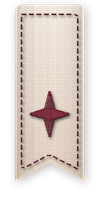
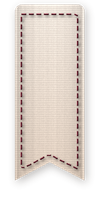
feat(bibliotheque): signet « en cours » teint en noyer, icônes Lucide sur les signets (#70)
- En cours : un brun noyer imprègne le ruban écru (le lie de vin reste à « terminé »)
- Coche et étincelle : icônes Lucide posées sur le ruban, plus brodées
- Script : motifs brodés retirés, variante noyer ajoutée

Changed region(s): [[0.2941, 0.4545, 0.7059, 0.7273]]

diff --git a/components/ui/RibbonBookmark.tsx b/components/ui/RibbonBookmark.tsx
@@ -11,22 +11,26 @@
  *     └──╲ ╱──┘   └──╲ ╱──┘   └──╲ ╱──┘
  *      terminé      en cours     nouveau
  *
- * - `done`    : ruban lie de vin, coche brodée crème ;
- * - `reading` : ruban écru que le lie de vin imprègne depuis le bout, à mon %,
- *               comme une teinture qui monte dans le tissu ; à 100 %, c'est le
- *               ruban « terminé ». Front de teinture ondulé et fondu, avec une
- *               ligne plus foncée là où la teinture s'accumule (comme le bord
- *               d'une aquarelle) : une coupe droite faisait abrupte ;
- * - `new`     : ruban écru, étincelle brodée lie de vin (dernier livre ajouté).
+ * - `done`    : ruban lie de vin, coche Lucide crème ;
+ * - `reading` : ruban écru qu'un brun noyer imprègne depuis le bout, à mon %,
+ *               comme une teinture qui monte dans le tissu. Front ondulé et
+ *               fondu, avec une ligne plus foncée là où la teinture s'accumule
+ *               (comme le bord d'une aquarelle) : une coupe droite faisait
+ *               abrupte. Le lie de vin reste réservé à « terminé » ;
+ * - `new`     : ruban écru, étincelle Lucide lie de vin (dernier livre ajouté).
  *
- * Les images sont calculées par scripts/generate-ribbon-bookmarks.py (tissu,
- * broderie en relief, ombre portée) : c'est ce qui les rend réalistes. Pour une
+ * Les pictogrammes sont des icônes Lucide posées sur l'image, pas brodés : règle
+ * « Lucide uniquement », et la coche brodée ne plaisait pas.
+ *
+ * Les rubans sont calculés par scripts/generate-ribbon-bookmarks.py (tissu,
+ * surpiqûre en relief, ombre portée) : c'est ce qui les rend réalistes. Pour une
  * nouvelle variante, l'ajouter au script plutôt que de dessiner un ruban ici.
  */
 
 import { Image } from 'expo-image';
+import { CheckIcon, SparkleIcon, type LucideIcon } from 'lucide-react-native';
 import React, { useId, useMemo } from 'react';
-import { StyleSheet } from 'react-native';
+import { StyleSheet, View } from 'react-native';
 import Svg, {
   ClipPath,
   Defs,
@@ -52,8 +56,16 @@ const RIBBON_LEFT = 5;
 const RIBBON_WIDTH = 23;
 const RIBBON_TOP = 1.5;
 const RIBBON_END = 60;
-/** Couleur de la ligne plus foncée au front de teinture (lie de vin profond) */
-const TIDE_LINE = '#4a1622';
+/** Couleur de la ligne plus foncée au front de teinture (noyer profond) */
+const TIDE_LINE = '#3a2a20';
+
+/** Pictogramme de chaque ruban : icône Lucide, sa couleur, centrée dans le ruban */
+const ICONS: Record<'done' | 'new', { icon: LucideIcon; color: string }> = {
+  done: { icon: CheckIcon, color: '#f6ede4' },
+  new: { icon: SparkleIcon, color: '#7a2e3e' },
+};
+const ICON_SIZE = 15;
+const ICON_CENTER_Y = 38;
 
 /** Hauteur de l'ondulation du front, et largeur du fondu sous elle */
 const WAVE = 0.9;
@@ -100,7 +112,15 @@ export default function RibbonBookmark(props: RibbonBookmarkProps) {
   const line = useMemo(() => dyeFront(front, percent * 0.37), [front, percent]);
 
   if (props.kind !== 'reading') {
-    return <Image source={RIBBONS[props.kind]} style={styles.ribbon} contentFit="contain" />;
+    const { icon: Icon, color } = ICONS[props.kind];
+    return (
+      <View style={styles.ribbon}>
+        <Image source={RIBBONS[props.kind]} style={StyleSheet.absoluteFill} contentFit="contain" />
+        <View style={styles.icon}>
+          <Icon size={ICON_SIZE} color={color} strokeWidth={2.5} absoluteStrokeWidth />
+        </View>
+      </View>
+    );
   }
 
   // Zone teinte : sous le front, jusqu'en bas de l'image
@@ -154,5 +174,15 @@ const styles = StyleSheet.create({
   ribbon: {
     width: WIDTH,
     height: HEIGHT,
+  },
+  // Légère ombre sous l'icône : elle semble posée sur le tissu, pas imprimée dessous
+  icon: {
+    position: 'absolute',
+    left: RIBBON_LEFT + (RIBBON_WIDTH - ICON_SIZE) / 2,
+    top: ICON_CENTER_Y - ICON_SIZE / 2,
+    shadowColor: '#1e140e',
+    shadowOffset: { width: 0, height: 0.5 },
+    shadowOpacity: 0.3,
+    shadowRadius: 0.5,
   },
 });

diff --git a/scripts/generate-ribbon-bookmarks.py b/scripts/generate-ribbon-bookmarks.py
@@ -2,9 +2,10 @@
 Génère les marque-pages en tissu brodés de la bibliothèque
 (assets/images/ribbons/ribbon-*.png, en @2x et @3x).
 
-Un signet en ruban qui sort du haut du livre, se replie par-dessus le bord de la
-couverture et pend devant elle, bout coupé en V. Dessus, un motif brodé au point
-passé (satin stitch), en relief.
+Un signet en ruban qui sort du haut du livre et pend devant la couverture, bout
+coupé en V, surpiqûre brodée sur tout le tour. Le pictogramme (coche, étincelle)
+n'est PAS dans l'image : l'app pose une icône Lucide par-dessus (règle : Lucide
+uniquement, pas de dessin maison ; la coche brodée ne plaisait pas).
 
 Réalisme, dans l'ordre du dessin :
 - le ruban : gros-grain (fines côtes horizontales), lisières un peu plus denses,
@@ -12,16 +13,16 @@ Réalisme, dans l'ordre du dessin :
   jamais d'aplat) ;
 - pas de pli dessiné au sommet : le bourrelet formait un trait qui alourdissait le
   haut (retiré à la demande de Lea) ;
-- la broderie : des centaines de fils parallèles, légèrement obliques, chacun
-  avec sa propre nuance, un reflet sur le dessus et une ombre portée sur le ruban ;
+- la broderie : surpiqûre au point avant sur tout le tour, fils en relief (deux
+  brins, reflet soyeux) et ombre portée sur le ruban ;
 - l'ombre du ruban sur la couverture.
 
 Variantes :
-- done           : ruban lie de vin, coche brodée crème (livre terminé) ;
-- new            : ruban écru, étincelle brodée lie de vin (dernier livre ajouté) ;
-- progress-track : ruban écru nu (livre en cours, le fond) ;
-- progress-fill  : ruban lie de vin nu, sans ombre (livre en cours, le remplissage
-                   que l'app coupe à mon %).
+- done           : ruban lie de vin, fil crème (livre terminé) ;
+- new            : ruban écru, fil lie de vin (dernier livre ajouté) ;
+- progress-track : ruban écru, fil noyer (livre en cours, le fond) ;
+- progress-fill  : ruban noyer, fil crème, sans ombre (livre en cours, la teinture
+                   que l'app révèle à mon %).
 
 Usage : python3 scripts/generate-ribbon-bookmarks.py
 Dépendances : numpy, Pillow.
@@ -44,22 +45,24 @@ TOP = 1.5                        # haut du pli
 COVER_TOP = 9                    # bord haut de la couverture dans l'image
 TAIL_END = 60                    # pointe des deux bouts du V
 NOTCH = 6                        # profondeur du V
-ICON_CENTER = (RIBBON_X + RIBBON_W / 2, 38)
 BORDER_INSET = 2.2               # surpiqûre : distance au bord du ruban
 
 WINE = ("#8c3b4c", "#5e1f2e")
 ECRU = ("#f3e9df", "#e1cfbf")
+WALNUT = ("#8a6a52", "#553d2e")
 CREAM_THREAD = "#f6ede4"
 WINE_THREAD = "#7a2e3e"
+WALNUT_THREAD = "#5e4535"
 
 VARIANTS = {
     # Couleur d'accent lie de vin : essai (demande de Lea, 2026-09-17)
-    "done": {"ribbon": WINE, "thread": CREAM_THREAD, "motif": "check"},
-    "new": {"ribbon": ECRU, "thread": WINE_THREAD, "motif": "sparkle"},
-    # En cours : l'app superpose le ruban lie de vin (sans ombre) sur le ruban écru,
-    # coupé à mon %. Même graine, même géométrie : les deux tissus coïncident.
-    "progress-track": {"ribbon": ECRU, "thread": WINE_THREAD, "motif": None},
-    "progress-fill": {"ribbon": WINE, "thread": CREAM_THREAD, "motif": None, "shadow": False},
+    "done": {"ribbon": WINE, "thread": CREAM_THREAD},
+    "new": {"ribbon": ECRU, "thread": WINE_THREAD},
+    # En cours : un brun noyer imprègne le ruban écru (le lie de vin est réservé à
+    # « terminé »). L'app révèle le ruban noyer (sans ombre) sous le front, à mon %.
+    # Même graine, même géométrie : les deux tissus coïncident au pixel.
+    "progress-track": {"ribbon": ECRU, "thread": WALNUT_THREAD},
+    "progress-fill": {"ribbon": WALNUT, "thread": CREAM_THREAD, "shadow": False},
 }
 
 
@@ -129,63 +132,6 @@ def fractal_rows(rng, n):
 
 # ── Broderie ──
 
-def smooth_polyline(points, fillet, step=0.05):
-    """Échantillonne une ligne brisée en arrondissant chaque coin (rayon `fillet`, en pt)."""
-    out = []
-    for i in range(len(points) - 1):
-        (x0, y0), (x1, y1) = points[i], points[i + 1]
-        seg = math.hypot(x1 - x0, y1 - y0)
-        start = fillet if i > 0 else 0
-        end = seg - (fillet if i < len(points) - 2 else 0)
-        n = max(2, int((end - start) / step))
-        for k in range(n + 1):
-            t = (start + (end - start) * k / n) / seg
-            out.append((x0 + (x1 - x0) * t, y0 + (y1 - y0) * t))
-        if i < len(points) - 2:
-            # Coin : courbe de Bézier quadratique entre la fin de ce segment et le début du suivant
-            (x2, y2) = points[i + 2]
-            seg2 = math.hypot(x2 - x1, y2 - y1)
-            p0 = (x1 - (x1 - x0) / seg * fillet, y1 - (y1 - y0) / seg * fillet)
-            p2 = (x1 + (x2 - x1) / seg2 * fillet, y1 + (y2 - y1) / seg2 * fillet)
-            for k in range(1, 12):
-                t = k / 12
-                out.append((
-                    (1 - t) ** 2 * p0[0] + 2 * (1 - t) * t * x1 + t ** 2 * p2[0],
-                    (1 - t) ** 2 * p0[1] + 2 * (1 - t) * t * y1 + t ** 2 * p2[1],
-                ))
-    return out
-
-
-def motif_strokes(kind):
-    """Le motif : des traits (points en pt), avec la demi-largeur du fil au départ et à l'arrivée."""
-    cx, cy = ICON_CENTER
-    if kind == "check":
-        k = 0.68  # pt par unité du dessin Lucide (24 × 24)
-        p = [(4.5, 12), (9, 16.5), (19.5, 6)]
-        pts = [(cx + (a - 12) * k, cy + (b - 11.25) * k) for a, b in p]
-        # Comme à la main : chaque branche brodée à part, fils perpendiculaires à
-        # elle, la grande branche en second pour couvrir la jonction. Effilée aux
-        # deux bouts, pleine au coin, comme un trait de plume : la coche pleine
-        # largeur, bouts carrés, faisait grossière.
-        (x0, y0), (x1, y1), (x2, y2) = pts
-        corner = 1.4
-
-        def extend(a, b, by):
-            length = math.hypot(b[0] - a[0], b[1] - a[1])
-            return (b[0] + (b[0] - a[0]) / length * by, b[1] + (b[1] - a[1]) / length * by)
-
-        short = smooth_polyline([(x0, y0), extend((x0, y0), (x1, y1), corner * 0.45)], 0)
-        long_leg = smooth_polyline([extend((x2, y2), (x1, y1), corner * 0.7), (x2, y2)], 0)
-        return [(short, 0.5, corner), (long_leg, corner, 0.28)]
-    # Étincelle à quatre branches, fines au bout
-    strokes = []
-    for angle, length in ((-90, 7.6), (90, 7.6), (0, 6.6), (180, 6.6)):
-        a = math.radians(angle)
-        tip = (cx + math.cos(a) * length, cy + math.sin(a) * length)
-        strokes.append((smooth_polyline([(cx, cy), tip], 0), 2.3, 0.25))
-    return strokes
-
-
 class Needle:
     """Pose des fils sur deux calques : couleur et opacité."""
 
@@ -228,36 +174,6 @@ class Needle:
             np.asarray(self.color, dtype=np.float32) / 255,
             np.asarray(self.mask, dtype=np.float32) / 255,
         )
-
-
-def satin_stitches(needle, kind):
-    """Le motif, au point passé : des fils serrés qui traversent tout le trait."""
-    for pts, hw0, hw1 in motif_strokes(kind):
-        lengths = [0.0]
-        for (xa, ya), (xb, yb) in zip(pts, pts[1:]):
-            lengths.append(lengths[-1] + math.hypot(xb - xa, yb - ya))
-        total = lengths[-1]
-        next_at, i = 0.0, 0
-        while next_at <= total:
-            while i < len(pts) - 2 and lengths[i + 1] < next_at:
-                i += 1
-            (xa, ya), (xb, yb) = pts[i], pts[i + 1]
-            seg = max(1e-6, lengths[i + 1] - lengths[i])
-            t = (next_at - lengths[i]) / seg
-            px, py = xa + (xb - xa) * t, ya + (yb - ya) * t
-            tx, ty = (xb - xa) / seg, (yb - ya) / seg
-            nx, ny = -ty, tx
-            hw = hw0 + (hw1 - hw0) * (next_at / total)
-            # Bouts arrondis : le trait s'amincit un peu sur ses derniers 0,9 pt, sans
-            # s'effilocher (en dessous de 70 % de largeur, les fils s'écartaient en pinceau)
-            edge = min(next_at, total - next_at)
-            if hw0 == hw1 and edge < 0.9:
-                hw *= 0.7 + 0.3 * math.sqrt(edge / 0.9)
-            # Fils à peine obliques ; bien droits aux bouts pour ne pas s'écarter
-            skew = 0.18 if edge > 1.2 else 0.0
-            sx, sy = nx + tx * skew, ny + ty * skew
-            needle.thread((px - sx * hw, py - sy * hw), (px + sx * hw, py + sy * hw), 0.44)
-            next_at += 0.34
 
 
 def running_stitch_border(needle):
@@ -309,12 +225,10 @@ def relief_and_shadow(color, alpha, strength):
     return color, shadow
 
 
-def embroidery(kind, thread_hex, rng):
-    """Motif et surpiqûre : couleur, opacité, et ombre portée des fils sur le ruban."""
+def embroidery(thread_hex, rng):
+    """La surpiqûre : couleur, opacité, et ombre portée des fils sur le ruban."""
     needle = Needle(thread_hex, rng)
     running_stitch_border(needle)
-    if kind:
-        satin_stitches(needle, kind)
     color, alpha = needle.layers()
     color, shadow = relief_and_shadow(color, alpha, 1.0)
     return color, alpha, shadow
@@ -330,7 +244,7 @@ def render(name, spec, rng):
     base = top[None, :] + (bottom - top)[None, :] * np.clip(t, 0, 1)[:, None]
     rgb = np.clip(base[:, None, :] * light[..., None], 0, 1)
 
-    thread, thread_a, thread_shadow = embroidery(spec["motif"], spec["thread"], rng)
+    thread, thread_a, thread_shadow = embroidery(spec["thread"], rng)
     rgb = rgb * (1 - thread_shadow[..., None] * mask[..., None])
     rgb = rgb * (1 - thread_a[..., None]) + thread * thread_a[..., None]
 

diff --git a/DESIGN.md b/DESIGN.md
@@ -486,14 +486,13 @@ arrête de grandir et la liste défile.
 chaque couverture, calculé sur **ma** progression, jamais sur celle du club :
 - **pas commencé** : rien ;
 - **nouveau** : seul le dernier livre ajouté, tant qu'il n'est pas commencé —
-  ruban écru, étincelle brodée lie de vin ;
-- **en cours** : ruban écru que le **lie de vin imprègne depuis le bout du V, à mon
+  ruban écru, surpiqûre et étincelle Lucide (`sparkle`) lie de vin ;
+- **en cours** : ruban écru qu'un **brun noyer imprègne depuis le bout du V, à mon
   %** (10 % au moins, sinon on ne le voit pas), comme une teinture qui monte dans
-  le tissu. Front **ondulé et fondu**, avec une ligne à peine plus foncée là où la
+  le tissu. Pas le lie de vin, réservé à « terminé ». Front **ondulé et fondu**, avec une ligne à peine plus foncée là où la
   teinture s'accumule (comme le bord d'une aquarelle) : une coupe droite faisait
   abrupte. Dans la partie teinte, la surpiqûre passe en crème ;
-- **terminé** : ruban entièrement lie de vin — le ruban « en cours » à 100 % —,
-  coche brodée crème.
+- **terminé** : ruban lie de vin, surpiqûre crème, coche Lucide (`check`) crème.
 
 Essais écartés : pastille en pourcentage « 58 % », anneau de progression sur flou
 dépoli, autocollant rond.
@@ -596,9 +595,9 @@ qui sert d'affordance « annuler ».
 
 ### Signets brodés — `RibbonBookmark`
 
-Un signet en ruban qui sort du haut du livre, passe par-dessus le bord de la
-couverture et pend devant elle, bout coupé en V, avec un motif **brodé au point
-passé**. C'est la direction « maille » : du textile réaliste, pas un pictogramme.
+Un signet en ruban qui sort du haut du livre et pend devant la couverture, bout
+coupé en V, **surpiqûre brodée sur tout le tour**. C'est la direction « maille » :
+du textile réaliste.
 
 - **Ruban** : gros-grain (côtes horizontales, chaîne fine), lisière un peu plus
   claire, haut plat sans pli dessiné (le bourrelet alourdissait), dégradé clair en
@@ -606,32 +605,29 @@ passé**. C'est la direction « maille » : du textile réaliste, pas un pictogr
   douce sur la couverture. **Matière discrète** : trop de relief, de trame et
   d'ombre faisait « old school » (skeuomorphisme des débuts de l'iPhone).
 - **Broderie, effet marqué** (demande de Lea : « pousser l'effet brodé ») :
-  - motif **au point passé**, gros et bombé : fils serrés qui traversent tout le
-    trait, deux brins visibles, reflet soyeux du fil à broder, bord rembourré,
-    ombre des fils sur le ruban ; chaque branche d'un motif est brodée à part,
-    fils perpendiculaires à elle (un tracé arrondi au coin effilochait les fils) ;
+  - fils en relief : deux brins visibles, reflet soyeux du fil à broder, ombre
+    des fils sur le ruban ;
   - **surpiqûre au point avant sur tout le tour** du ruban — haut, côtés et le long
-    du V —, dans le fil du motif, à 2,2 pt du bord : c'est elle qui dit « fait main »
+    du V —, à 2,2 pt du bord : c'est elle qui dit « fait main »
     au premier coup d'œil.
 - Ruban de 23 pt de large, pour que la broderie se lise à taille réelle.
 - **Images calculées** par `scripts/generate-ribbon-bookmarks.py` (@2x, @3x) : pour
-  une nouvelle couleur ou un nouveau motif, ajouter une variante au script, ne pas
+  une nouvelle couleur, ajouter une variante au script, ne pas
   dessiner de ruban dans le code.
 
-| Variante | Ruban | Fil | Motif | Pour |
+| Variante | Ruban | Surpiqûre | Icône Lucide | Pour |
 |---|---|---|---|---|
-| `done` | lie de vin `#8c3b4c` → `#5e1f2e` | crème | coche | livre terminé |
-| `reading` | écru, rempli de lie de vin à mon % | lie de vin / crème | — | livre en cours |
-| `new` | écru `#f3e9df` → `#e1cfbf` | lie de vin | étincelle | dernier livre ajouté |
+| `done` | lie de vin `#8c3b4c` → `#5e1f2e` | crème | `check` crème | livre terminé |
+| `reading` | écru, imprégné de noyer `#8a6a52` → `#553d2e` à mon % | noyer / crème | — | livre en cours |
+| `new` | écru `#f3e9df` → `#e1cfbf` | lie de vin | `sparkle` lie de vin | dernier livre ajouté |
+
+**Pictogrammes : icônes Lucide posées sur le ruban**, jamais brodées ni dessinées
+dans l'image (règle « Lucide uniquement » ; la coche brodée faisait grossière). Le
+ruban brodé porte la matière, l'icône porte le sens.
 
 `reading` superpose deux images calculées avec la même graine — `progress-track`
-(écru, avec ombre) et `progress-fill` (lie de vin, sans ombre pour ne pas la
-doubler) — et révèle la seconde sous le front (masque SVG : vagues + fondu). Les
+(écru, avec ombre) et `progress-fill` (noyer, sans ombre pour ne pas la doubler) — et révèle la seconde sous le front (masque SVG : vagues + fondu). Les
 tissus et la surpiqûre coïncident au pixel.
-
-La coche est **effilée aux deux bouts et pleine au coin**, comme un trait de
-plume, chaque branche brodée à part : pleine largeur et bouts carrés, elle faisait
-grossière.
 
 Le lie de vin est un **essai de couleur d'accent** (issue dédiée sur le BBB
 Roadmap), pas encore adopté pour le reste de l'app. Premier essai en noyer et
